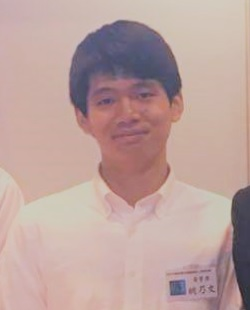
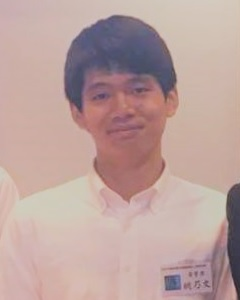
changeAvatar

diff --git a/public/index.html b/public/index.html
@@ -39,8 +39,8 @@
     }
     
     #avatar {
-        width: 240px;
-        height: 300px;
+        /*width: 240px;*/
+        /*height: 300px;*/
         float: left;
     }
     
@@ -74,15 +74,16 @@
 <body>
     <div class="container">
         <div class="introduce container-fluid">
-            <img class="col-md-4 col-xs-4" id='avatar' src="pic/avatar.jpg">
-            <div title="introLable" class="introdiv col-md-4 col-xs-8">
+            <div class="col-md-3 col-xs-5">
+                <img id='avatar' src="pic/avatar.jpg">
+            </div>
+            <div title="introLable" class="introdiv col-md-5 col-xs-7">
                 <h1 style="text-indent: 10px;font-family: '微軟正黑體';color: white;">姚乃文
                 <span style="font-family: 'Time new roman'">Nai Wen Yao</span></h1>
                 <p><span class="glyphicon glyphicon-user"></span>男性</p>
                 <p><span class="glyphicon glyphicon-envelope"></span>tsub1994@gmail.com</p>
                 <p><span class="glyphicon glyphicon-earphone"></span>0937-457-376</p>
-            </div>
-            <div id="education" class="introdiv col-md-4 col-xs-8">
+                <br>
                 <h3>學歷</h3>
                 <p>2013-2017.06 銘傳大學 資管系</p>
             </div>
